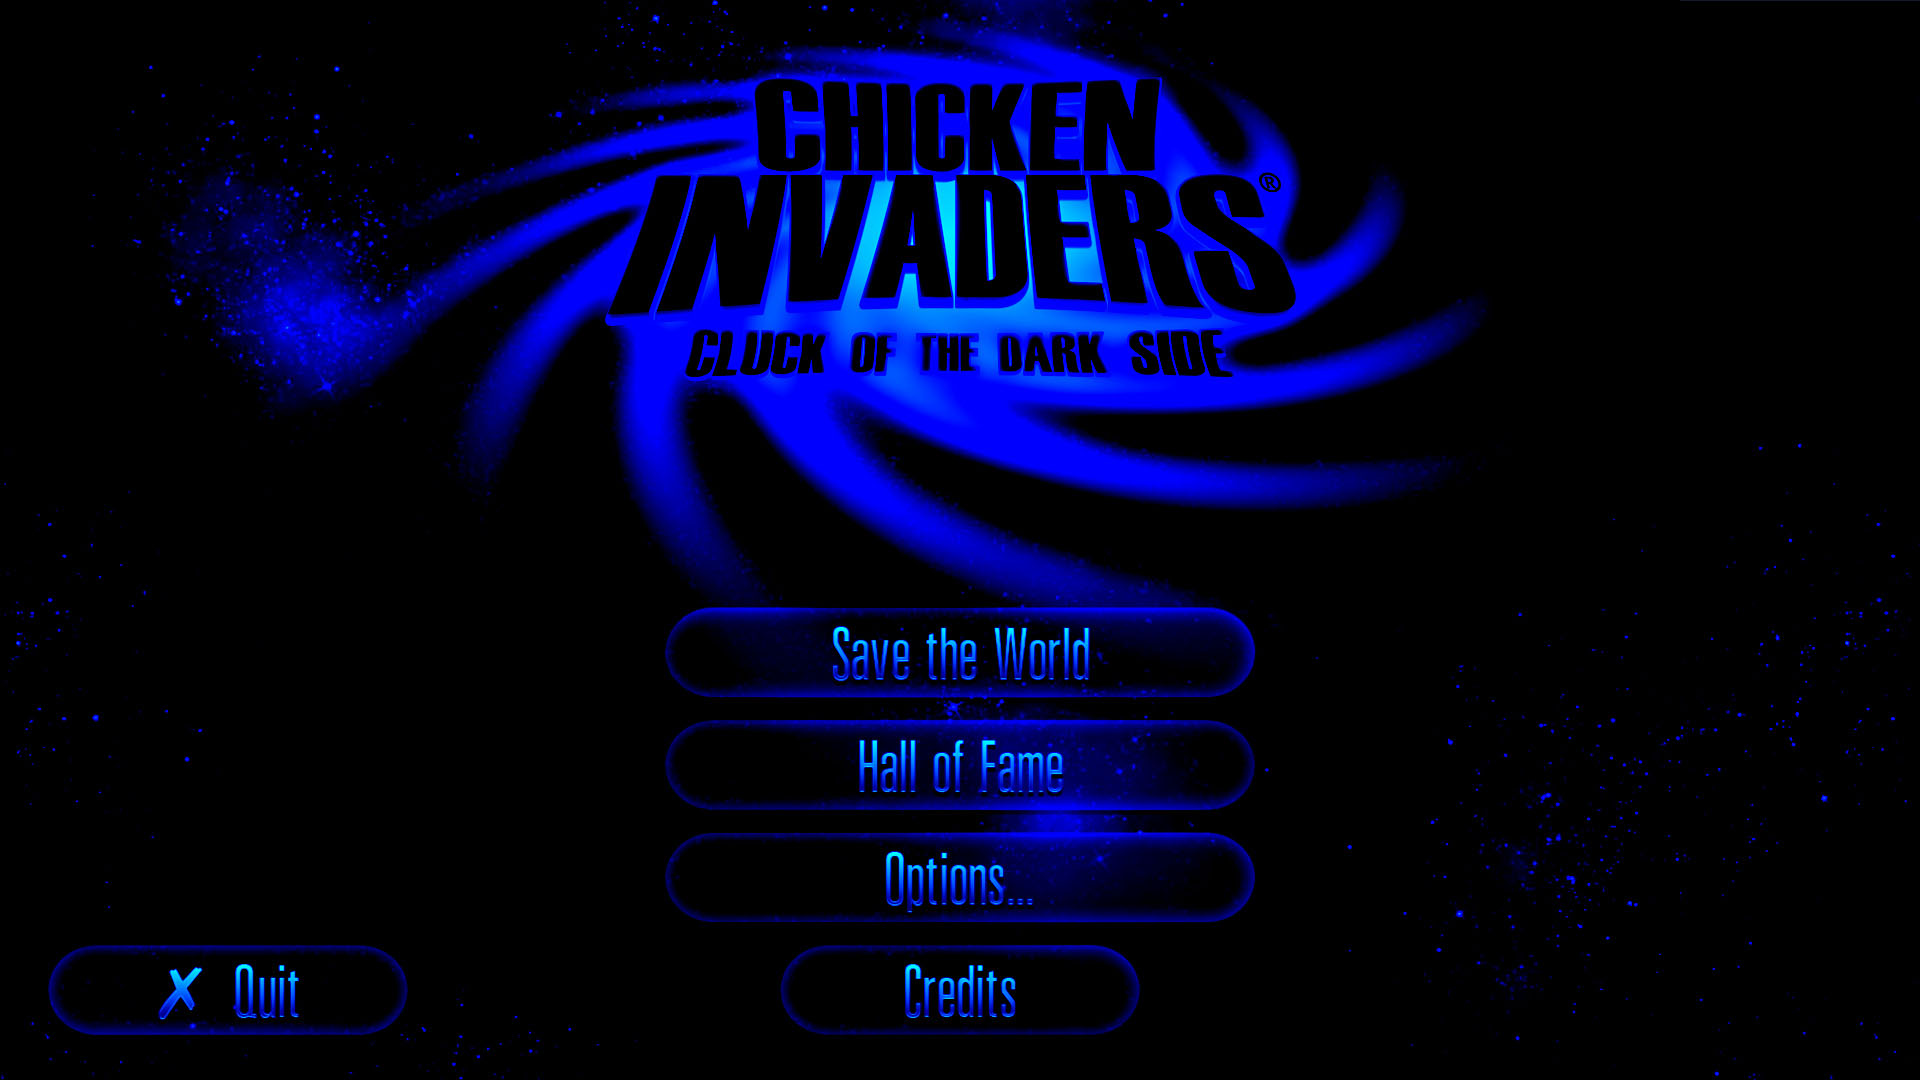
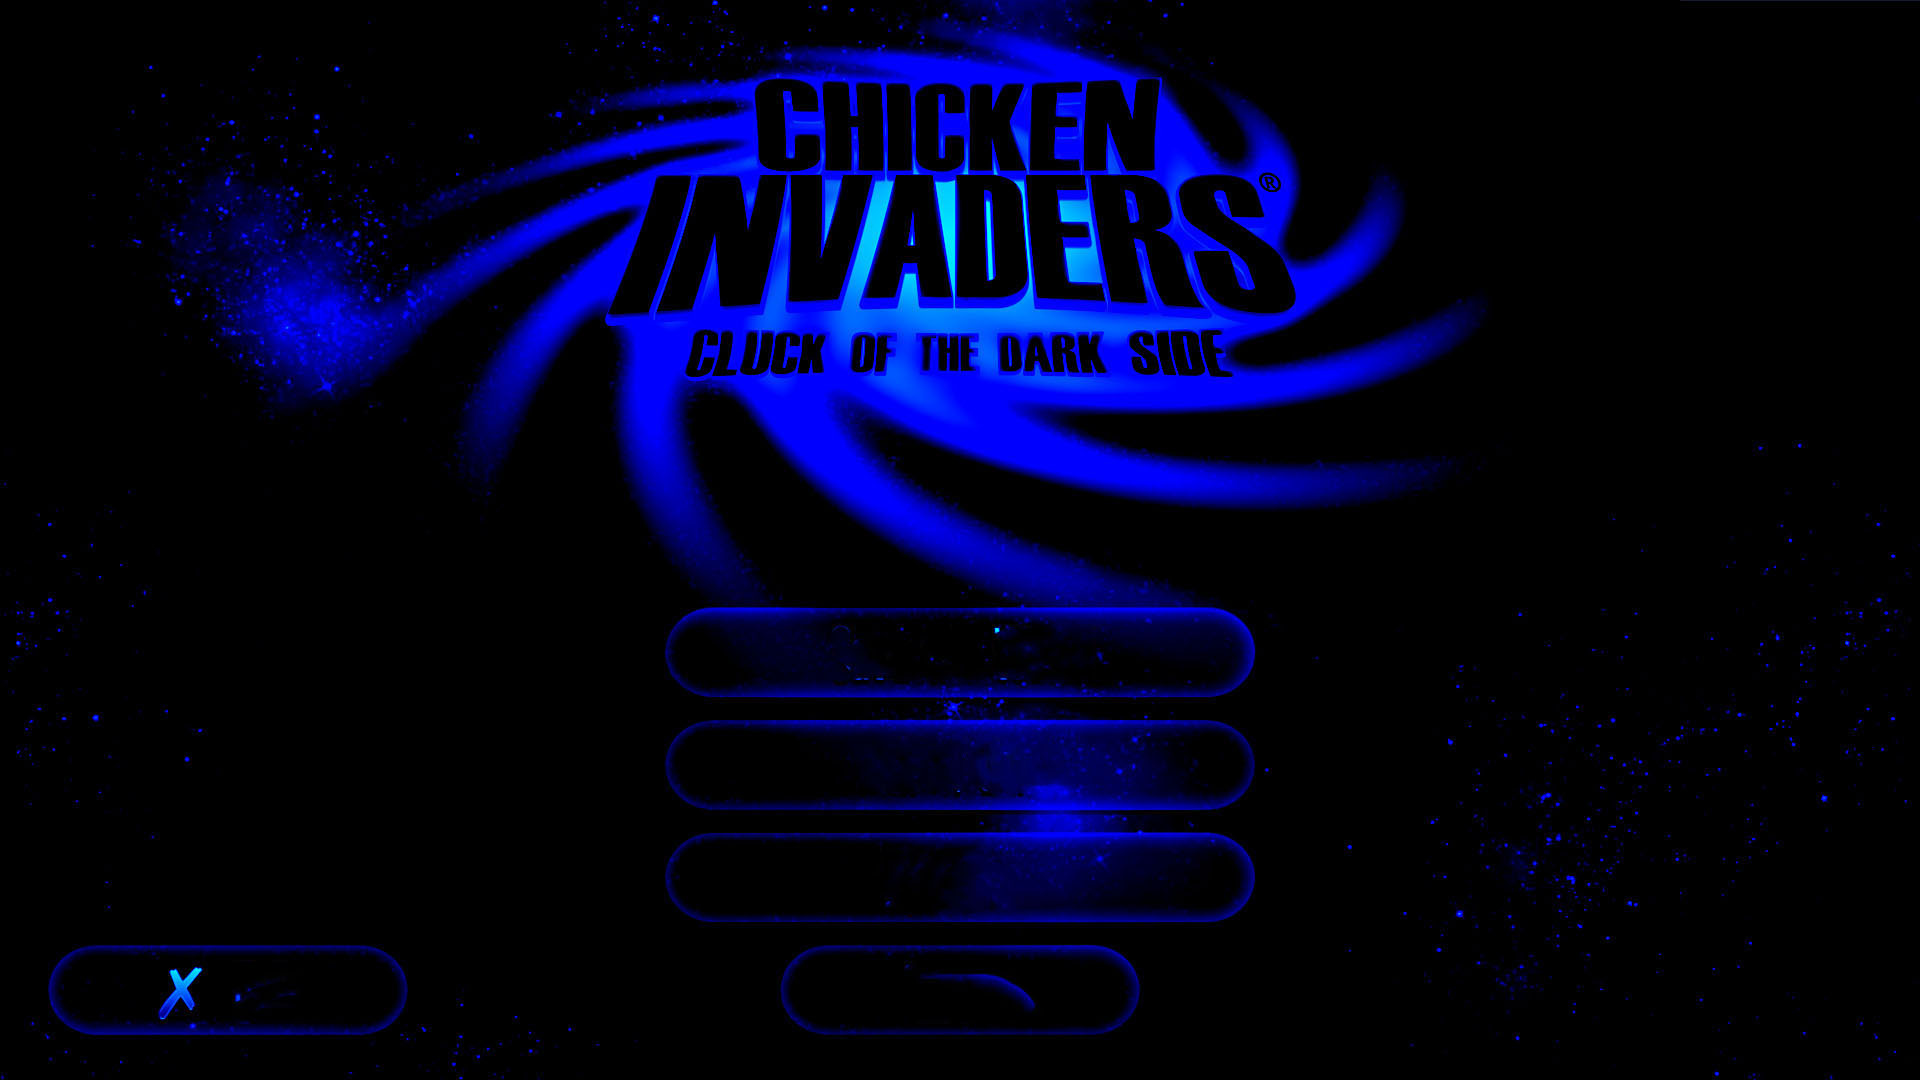
add menu

diff --git a/View.cpp b/View.cpp
@@ -9,20 +9,20 @@ View::View() : QGraphicsView()
     // add scnen
     setScene(viewController->scene);
 
-    //fullsceenig the game window
+    // fullsceenig the game window
     setWindowState(Qt::WindowFullScreen);
 
-    //delete scroll bar
+    // delete scroll bar
     setHorizontalScrollBarPolicy(Qt::ScrollBarAlwaysOff);
     setVerticalScrollBarPolicy(Qt::ScrollBarAlwaysOff);
 
-    //adding background
-    setBackgroundBrush(QBrush(QImage(":/images/menu.jpeg")));
+    // adding background
+    setBackgroundBrush(QBrush(QImage(":/images/SpaceBackground2.jpj")));
 
     // initialize viewTime to zero
     viewTime = 0;
 
-    //create timer
+    // create timer
     QObject::connect(viewController->cTimer, SIGNAL(timeout()), this, SLOT(background()));
     viewController->cTimer->start(); // to do
 

diff --git a/Menu.cpp b/Menu.cpp
@@ -1,0 +1,28 @@
+#include "Menu.h"
+
+// constructor
+Menu::Menu() : QGraphicsView()
+{
+    // create controller
+    menuController = new Controller;
+
+    // add scene
+    setScene(menuController->scene);
+
+    // fullsceenig the game window
+    setWindowState(Qt::WindowFullScreen);
+
+    // delete scroll bar
+    setHorizontalScrollBarPolicy(Qt::ScrollBarAlwaysOff);
+    setVerticalScrollBarPolicy(Qt::ScrollBarAlwaysOff);
+
+    // adding background
+    setBackgroundBrush(QBrush(QImage(":/images/menu.jpeg")));
+}
+
+// destructor
+Menu::~Menu()
+{
+    delete menuController;
+}
+

diff --git a/Controller.h b/Controller.h
@@ -11,8 +11,9 @@ class Controller : public QObject
     // macro
     Q_OBJECT
 
-    // add class view to friend
+    // add friend classes
     friend class View;
+    friend class Menu;
 
 private:
     // private members
@@ -20,13 +21,13 @@ private:
     QTimer * cTimer;
     QGraphicsRectItem * holder;
 
-
 public:
     // constructor
     explicit Controller(QObject *parent = nullptr);
 
     // destructor
     ~Controller();
+
 };
 
 #endif // CONTROLLER_H

diff --git a/Menu.h b/Menu.h
@@ -1,0 +1,28 @@
+#ifndef MENU_H
+#define MENU_H
+
+#include <QObject>
+#include <QGraphicsView>
+#include <QGraphicsTextItem>
+#include <QGraphicsSceneMouseEvent>
+#include "View.h"
+
+class Menu : public QGraphicsView
+{
+    // macro
+    Q_OBJECT
+
+private:
+    // private members
+    Controller * menuController;
+
+public:
+    // constructor
+    explicit Menu();
+
+    // destructor
+    ~Menu();
+
+};
+
+#endif // MENU_H

diff --git a/View.h b/View.h
@@ -11,7 +11,7 @@ class View : public QGraphicsView
     Q_OBJECT
 
 private:
-    //members class
+    // private members
     Controller * viewController;
     double viewTime;
 
@@ -23,6 +23,7 @@ public:
     ~View();
 
 public slots:
+    // show background
     void background();
 
 };

diff --git a/main.cpp b/main.cpp
@@ -1,13 +1,13 @@
 #include <QApplication>
 
-#include "View.h"
+#include "Menu.h"
 
 int main(int argc, char *argv[])
 {
     QApplication a(argc, argv);
 
-    auto view = new View();
-    view->show();
+    auto menu = new Menu();
+    menu->show();
 
     return a.exec();
 }
